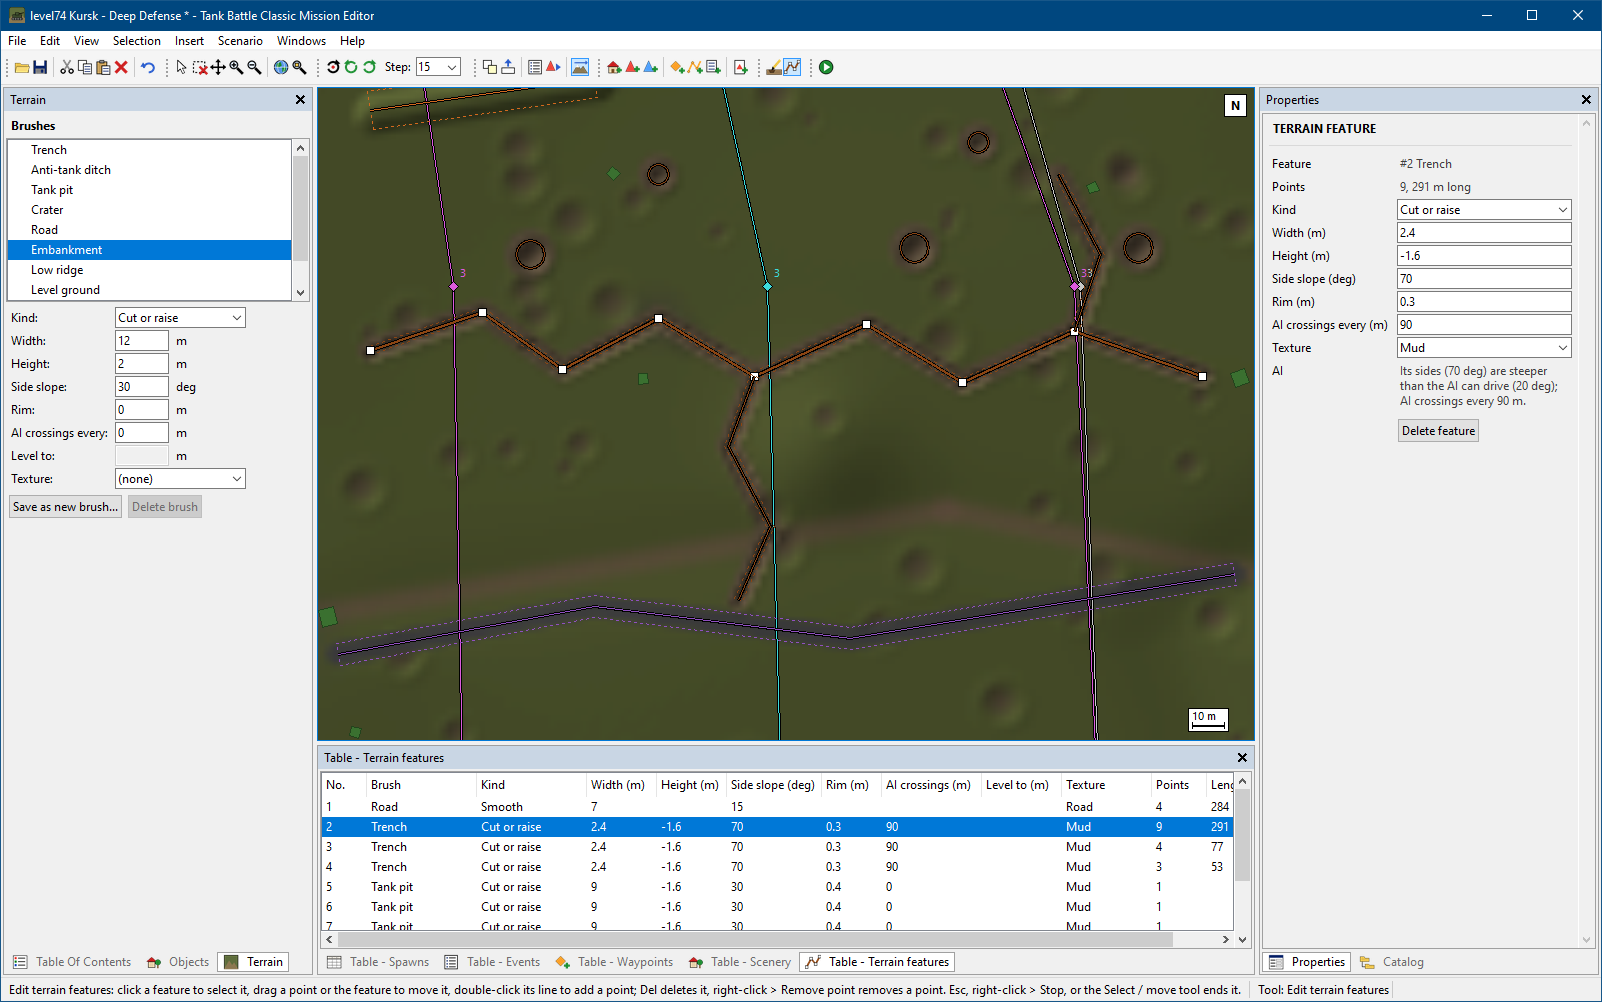
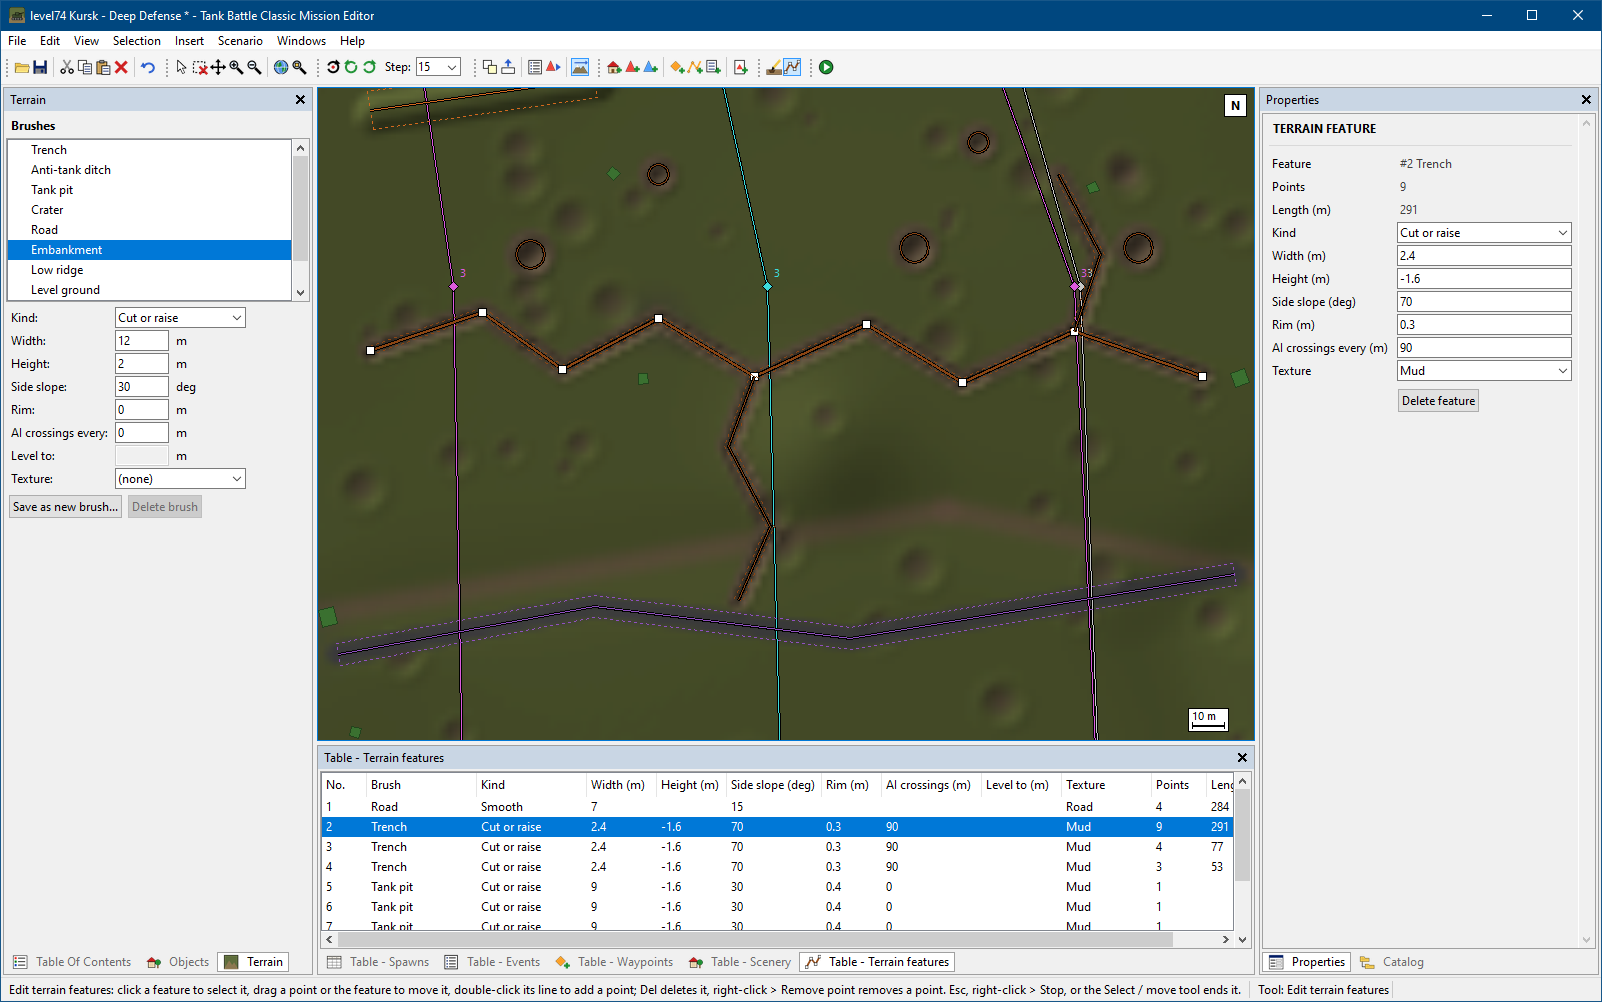
Properties without explanatory text (1.25.1)
The panels hold fields, not instructions:
- event groups are Action, Trigger, Message and Relations, without
  sentences under the headings; the type and trigger descriptions are
  tooltips of their fields; 'Cancels events', 'Time (s)', 'Required',
  'Number required'; list buttons 'From list...' and 'On map';
- Mission settings loses its Hint row; multiple selection loses its Edit
  row; the tank group shows '5 units; mixed tank types';
- the terrain feature panel loses its AI sentence and shows Points and
  Length (m) as separate values;
- the Objects pane no longer shows instructions (choosing an item starts
  the Add tool, whose instructions are in the status bar); the line below
  it shows only the progress of the object library build.

README screenshots of the events and the terrain features updated.

Changed region(s): [[0.7803, 0.1856, 0.9675, 0.4331], [0.8739, 0.1856, 0.9363, 0.3094]]

diff --git a/editor.py b/editor.py
@@ -113,8 +113,6 @@ TOC_LAYERS = [
 ]
 TOC_DEFAULT_OFF = {"Deleted", "Elevation", "Contours", "NavMesh"}
 TOC_OVERLAYS = {"Elevation", "Contours", "NavMesh"}
-OBJ_HINT = ("Click an item to choose the Add tool for it, then click on the map to place one with each "
-            "click. Dragging an item onto the map places one directly.")
 DOUBLE_CLICK_MS = 400
 EVENT_MARK = 18
 
@@ -131,7 +129,7 @@ ADD_BUTTONS = {("spawn", 1): "add:hostile", ("spawn", 0): "add:friendly", ("rout
                ("waypoint",): "add:waypoint"}
 TOOL_NAMES = {"select": "Select / move", "pan": "Pan", "zoomin": "Zoom in", "zoomout": "Zoom out",
               "rotate": "Rotate", "feature": "Draw terrain", "vertex": "Edit terrain features", "add": "Add",
-              "pick": "Pick on map"}
+              "pick": "Select on map"}
 TERRAIN_TOOLS = ("feature", "vertex")
 FREEHAND_PX = 6
 BRUSH_PARAMS = (("width", "Width", "m", "Width at ground level"),
@@ -1831,7 +1829,7 @@ class EditorApp:
         self.obj_build_btn = ttk.Button(bottom, text="Build object library", command=self.build_library)
         self.obj_place_btn = ttk.Button(bottom, text="Place at map centre", command=self.place_selected_object)
         self.obj_place_btn.pack(side="left")
-        self.obj_hint = tk.Label(body, text=OBJ_HINT, anchor="w", justify="left", fg="#404040", wraplength=250)
+        self.obj_hint = tk.Label(body, text="", anchor="w", justify="left", fg="#404040", wraplength=250)
         self.obj_hint.pack(side="bottom", fill="x", padx=4)
         holder = bordered(body)
         holder.pack(fill="both", expand=True, padx=2, pady=2)
@@ -2570,7 +2568,9 @@ class EditorApp:
         sid = s["id"]
         self.prop_info("Feature", f"#{sid} {self.feature_name(s)}")
         n = len(s["points"])
-        self.prop_info("Points", f"{n}, {length(s['points']):.0f} m long" if n > 1 else "1 (a single stamp)")
+        self.prop_info("Points", str(n))
+        if n > 1:
+            self.prop_info("Length (m)", f"{length(s['points']):.0f}")
         self.prop_combo("Kind", [KIND_NAMES[k] for k in KINDS], KINDS.index(s["kind"]),
                         lambda i: self.set_feature_param(sid, "kind", KINDS[i]))
         for key, text, unit, _ in BRUSH_PARAMS:
@@ -2584,9 +2584,6 @@ class EditorApp:
         self.prop_combo("Texture", ["(none)"] + [layer_label(x) for x in names],
                         0 if tex is None or tex >= len(names) else tex + 1,
                         lambda i: self.set_feature_param(sid, "texture", None if i == 0 else i - 1))
-        note = self.ai_note(s).strip()
-        if note:
-            self.prop_info("AI", note)
         r = self._next()
         ttk.Button(self.props, text="Delete feature", command=self.delete_feature).grid(
             row=r, column=1, sticky="w", pady=(6, 0))
@@ -2731,11 +2728,11 @@ class EditorApp:
                 self.obj_hint.config(text=self.library_progress_text())
             else:
                 self.obj_build_btn.pack(side="left")
-                self.obj_hint.config(text="The object library is built once by scanning the original missions.")
+                self.obj_hint.config(text="")
             return
         self.obj_build_btn.pack_forget()
         self.obj_place_btn.pack(side="left")
-        self.obj_hint.config(text=OBJ_HINT)
+        self.obj_hint.config(text="")
         cats = {}
         for i, e in enumerate(lib.entries):
             if f and f not in e["name"].lower() and f not in e["category"].lower():
@@ -3438,7 +3435,7 @@ class EditorApp:
 
     def tool_title(self):
         if self.tool == "pick" and getattr(self, "pick", None):
-            return f"Pick {self.pick['title'].lower()}"
+            return f"Select {self.pick['title'].lower()} on map"
         return f"Add {self.add_item[2]}" if self.tool == "add" else TOOL_NAMES[self.tool]
 
     def cursor(self):
@@ -3469,7 +3466,7 @@ class EditorApp:
             return f"Add {title}: click on the map to place one."
         if tool == "pick" and getattr(self, "pick", None):
             what = "an area" if self.pick["kind"] == "areas" else "a tank"
-            return (f"{self.tool_title()} for {self.model.name(self.model.event_go[self.pick['ev']])}: click "
+            return (f"{self.tool_title()} ({self.model.name(self.model.event_go[self.pick['ev']])}): click "
                     f"{what} to add or remove it.")
         if tool == "feature":
             return (f"Draw terrain with '{self.brush['name']}': click points or drag to draw; right-click, "
@@ -4682,7 +4679,7 @@ class EditorApp:
                  if r["m_FileID"] == 0 and r["m_PathID"] in owner]
         self.prop_info(title, summary(names, "none"), tip=tip)
         r = self._next()
-        ttk.Button(self.props, text="Choose events...",
+        ttk.Button(self.props, text="From list...",
                    command=lambda: self.choose_events(ev, key, count_key, title)).grid(row=r, column=1, sticky="w",
                                                                                       pady=(0, 4))
 
@@ -4728,10 +4725,10 @@ class EditorApp:
         r = self._next()
         cell = tk.Frame(self.props, bg=FACE)
         cell.grid(row=r, column=1, sticky="w", pady=(0, 4))
-        ttk.Button(cell, text="Choose...", command=choose).pack(side="left")
-        btn = ttk.Button(cell, text="Pick on map", command=pick)
+        ttk.Button(cell, text="From list...", command=choose).pack(side="left")
+        btn = ttk.Button(cell, text="On map", command=pick)
         btn.pack(side="left", padx=(4, 0))
-        ToolTip(btn, "Click tanks or areas on the map to add or remove them")
+        ToolTip(btn, "Click on the map to add or remove; Esc ends")
 
     # ---- picking the tanks and areas of an event on the map ----------------
 
@@ -4879,7 +4876,7 @@ class EditorApp:
     def event_props(self, ev):
         """Properties of an event, built from the description of its type and
         trigger (event_types.py): only fields that do something in the game,
-        in the sections Event, What it does, When, Message and Links."""
+        in the groups Action, Trigger, Message and Relations."""
         m = self.model
         d = m.sc.read(ev)
         t, trig = d["Event_Type"], d["Trigger_Type"]
@@ -4889,10 +4886,11 @@ class EditorApp:
             types.append(t)
             names.append(f"Type {t}")
         self.prop_combo("Event type", names, types.index(t),
-                        lambda i: self.op("Set event type", m.set_field, ev, "Event_Type", types[i]))
+                        lambda i: self.op("Set event type", m.set_field, ev, "Event_Type", types[i]),
+                        tip=et.EVENT_HELP.get(t))
         self.prop_enabled(ev)
 
-        self.prop_heading("What it does", et.EVENT_HELP.get(t))
+        self.prop_heading("Action")
         if t in et.TARGET_TYPES:
             self.prop_tanklist("Affected tanks", ev, "Target_Tanks", "Target_Num")
         if t == 2:
@@ -4905,18 +4903,19 @@ class EditorApp:
         if t == 12:
             self.prop_info("Object", self.ref_name(d.get("Activation_Object")))
         self.schema_rows(ev, et.TYPE_FIELDS.get(t, []))
-        self.prop_eventlist("Also cancels", ev, "Useless_Events", "Useless_Event_Num",
-                            tip="Events that will no longer fire once this event has fired (for example, "
-                                "'Mission complete' cancels 'Mission failed')")
+        self.prop_eventlist("Cancels events", ev, "Useless_Events", "Useless_Event_Num",
+                            tip="Events that no longer fire after this event (for example 'Mission complete' "
+                                "cancels 'Mission failed')")
 
-        self.prop_heading("When", et.TRIGGER_HELP.get(trig))
+        self.prop_heading("Trigger")
         trigs = sorted(et.TRIGGER_NAMES)
         if trig not in trigs:
             trigs.append(trig)
-        self.prop_combo("Trigger", [et.TRIGGER_NAMES.get(k, f"Type {k}") for k in trigs], trigs.index(trig),
-                        lambda i: self.op("Set trigger", m.set_field, ev, "Trigger_Type", trigs[i]))
+        self.prop_combo("Type", [et.TRIGGER_NAMES.get(k, f"Type {k}") for k in trigs], trigs.index(trig),
+                        lambda i: self.op("Set trigger", m.set_field, ev, "Trigger_Type", trigs[i]),
+                        tip=et.TRIGGER_HELP.get(trig))
         if trig == 0:
-            self.prop_entry("After (s)", f"{d['Trigger_Time']:g}",
+            self.prop_entry("Time (s)", f"{d['Trigger_Time']:g}",
                             lambda s: self.op("Set trigger time", m.set_field, ev, "Trigger_Time", _number(s)),
                             tip="Seconds after the event is enabled")
         if trig == 2:
@@ -4926,28 +4925,29 @@ class EditorApp:
             self.prop_combo("Tanks that count", [et.AREA_TANKS[k] for k in keys], keys.index(cur) if cur in keys
                             else -1, lambda i: self.op("Set tanks that count", m.set_field, ev,
                                                        "Trigger_Setting_Type", keys[i]),
-                            tip="Hostile and friendly are seen from the player")
+                            tip="Hostile and friendly as seen from the player")
         if et.uses_tank_list(d):
             self.prop_tanklist("Trigger tanks", ev, "Trigger_Tanks", "Trigger_Num")
             modes = ["all", "any", "count"] if trig == 1 else ["all", "any"]
             mode, number = et.tanks_needed(d)
-            self.prop_combo("Tanks needed", [et.NEEDED[k] for k in modes], modes.index(mode) if mode in modes
+            self.prop_combo("Required", [et.NEEDED[k] for k in modes], modes.index(mode) if mode in modes
                             else 0, lambda i: self.set_tanks_needed(ev, modes[i]))
             if mode == "count" and trig == 1:
-                self.prop_entry("Number needed", str(number), lambda s: self.set_tanks_needed(ev, "count", int(s)))
+                self.prop_entry("Number required", str(number),
+                                lambda s: self.set_tanks_needed(ev, "count", int(s)))
 
         if et.shows_message(t):
             self.prop_heading("Message")
             text = d.get("Event_Message", "")
             self.prop_entry("Text", text, lambda s: self.set_message(ev, s),
-                            tip="The Japanese text is set to the same text")
+                            tip="Also used as the Japanese text")
             n = len(text)
             over = n > et.MESSAGE_LIMIT
             self.prop_info("Length", f"{n} of {et.MESSAGE_LIMIT} characters" + (": may be cut off" if over else ""),
                            fg=WARN_FG if over else "#404040")
             self.schema_rows(ev, et.MESSAGE_FIELDS)
 
-        self.prop_heading("Links", "Events that refer to this one.")
+        self.prop_heading("Relations")
         enabled_by, cancelled_by = self.event_links(ev)
         self.prop_info("Enabled by", summary(enabled_by, "none"))
         self.prop_info("Cancelled by", summary(cancelled_by, "none"))
@@ -6047,10 +6047,9 @@ class EditorApp:
             if key:
                 same = [e for e in m.spawns if m.sc.read(e)["Key_Name"] == key and m.active(m.event_go[e])]
                 kinds = {m.sc.read(e)["Tank_Prop"]["m_PathID"] for e in same}
-                note = f"{len(same)} unit(s) in this group"
-                if len(kinds) > 1:
-                    note += "; mixed tank types - the briefing screen sets one type per group"
-                self.prop_info("Group", note)
+                note = f"{len(same)} units" + ("; mixed tank types" if len(kinds) > 1 else "")
+                self.prop_info("Group", note, fg=WARN_FG if len(kinds) > 1 else "#404040",
+                               tip="The briefing screen offers one tank type per group" if len(kinds) > 1 else None)
             self.transform_rows(go)
             packs = [0] + m.packs
             pnames = ["(none)"] + [m.name(m.go_of_tr[p]) for p in m.packs]
@@ -6145,10 +6144,6 @@ class EditorApp:
         self.mission_field_rows(False)
         ai = [e for e in m.events if m.sc.read(e)["Event_Type"] == 2]
         self.prop_info("AI changes", ", ".join(m.name(m.event_go[e]) for e in ai) or "none")
-        self.prop_info("Hint", "Visibility sets how far tanks can see each other. 'Change lighting' events "
-                               "(Table - Events) change fog density and visibility during the mission. Allied "
-                               "groups: select the tanks and set a follow target (for example the Player) and "
-                               "distance in Properties.")
         self.prop_sep()
         self.prop_info("Spawns", str(len(m.spawns)))
         self.prop_info("Other events", str(len(m.events) - len(m.spawns)))
@@ -6196,7 +6191,7 @@ class EditorApp:
         """Mission settings: the lighting preset and values (custom scenarios)."""
         lt = self.lighting_session()
         if lt is None:
-            self.prop_info("Lighting", "Day, dusk and night: custom scenarios only.")
+            self.prop_info("Lighting", "Custom scenarios only")
             return
         try:
             cur, preset = lt.lighting(), lt.preset()
@@ -6288,13 +6283,10 @@ class EditorApp:
             kinds[self.kind(g)] = kinds.get(self.kind(g), 0) + 1
         for k, n in sorted(kinds.items()):
             self.prop_info(k.capitalize() + "s", str(n))
-        self.prop_info("Edit", "Drag, rotate (Q / E or the Rotate tool), copy, cut, paste, duplicate and delete "
-                               "act on the whole selection.")
         evs = [m.event_of_go(g) for g in sel if self.kind(g) == "spawn"]
         if len(evs) != len(sel):
             return
-        self.prop_sep()
-        self.prop_label("Set for all selected tanks:")
+        self.prop_heading("Selected tanks")
         names = [tank_display(t) for t in m.tanks]
         cur = {m.tank_entry(e) for e in evs}
         one = cur.pop() if len(cur) == 1 else None
@@ -6353,13 +6345,10 @@ class EditorApp:
         if tip:
             ToolTip(lbl, tip)
 
-    def prop_heading(self, text, note=None):
-        """A section heading, with an optional explanation below it."""
+    def prop_heading(self, text):
+        """A group heading."""
         tk.Label(self.props, text=text, font=UI_BOLD, anchor="w").grid(
             row=self._next(), column=0, columnspan=2, sticky="w", pady=(8, 0))
-        if note:
-            tk.Label(self.props, text=note, anchor="w", justify="left", wraplength=300, fg="#505050").grid(
-                row=self._next(), column=0, columnspan=2, sticky="w", pady=(0, 2))
 
     def prop_entry(self, name, value, commit, tip=None):
         r = self._next()

diff --git a/event_types.py b/event_types.py
@@ -30,23 +30,22 @@ EVENT_NAMES = {1: "Show message", 2: "Change AI settings", 3: "Remove tanks", 4:
                6: "Destroy target", 7: "Change lighting", 10: "Mission complete", 11: "Mission failed",
                12: "Activate object", 13: "Enable events"}
 EVENT_HELP = {
-    1: "Shows a message.",
-    2: "Gives the affected tanks new AI settings. All values below are applied, not only changed ones.",
-    3: "Removes the affected tanks from the battle.",
+    1: "Displays a message.",
+    2: "Applies new AI settings to the affected tanks. All values are applied.",
+    3: "Removes the affected tanks.",
     4: "Fires an artillery barrage.",
     6: "Destroys the affected tanks.",
-    7: "Changes fog density and visibility over a set time.",
-    10: "Ends the mission as won and shows the message.",
-    11: "Ends the mission as lost and shows the message.",
-    12: "Switches an object in the scene on or off.",
-    13: "Starts events that are not enabled at start; their timers begin now.",
+    7: "Changes fog density and visibility over the given time.",
+    10: "Ends the mission as won; displays the message.",
+    11: "Ends the mission as lost; displays the message.",
+    12: "Switches an object on or off.",
+    13: "Enables events that are disabled at start; their timers start then.",
 }
 TRIGGER_NAMES = {0: "Timer", 1: "Tanks destroyed", 2: "Tank in trigger area"}
 TRIGGER_HELP = {
-    0: "Fires the given number of seconds after the event is enabled: at the start of the mission, or "
-       "when an 'Enable events' event enables it.",
-    1: "Fires when the listed tanks are destroyed (all, any, or a number of them).",
-    2: "Fires when a tank enters one of the trigger areas.",
+    0: "Time after the event is enabled (mission start or an Enable events event).",
+    1: "Destruction of the listed tanks (all, any or a number of them).",
+    2: "A tank entering one of the trigger areas.",
 }
 AREA_TANKS = {0: "Listed tanks", 1: "Any hostile tank", 2: "Any friendly tank"}
 NEEDED = {"all": "All listed tanks", "any": "Any listed tank", "count": "A number of them"}

diff --git a/tests/test_tools.py b/tests/test_tools.py
@@ -221,10 +221,10 @@ class ToolTest(unittest.TestCase):
         app.op("timer", m.set_field, ev, "Trigger_Type", 0)
         app.refresh_props()
         texts = self.prop_texts()
-        for heading in ("What it does", "When", "Message", "Links"):
+        for heading in ("Action", "Trigger", "Message", "Relations"):
             self.assertIn(heading, texts)
-        self.assertIn("After (s)", texts)
-        self.assertNotIn("Tanks needed", texts)
+        self.assertIn("Time (s)", texts)
+        self.assertNotIn("Required", texts)
         app.set_message(ev, "Short text")
         self.assertEqual(m.sc.read(ev)["Event_Message_JPN"], "Short text", "the Japanese text follows")
         app.op("destroyed", m.set_field, ev, "Trigger_Type", 1)
@@ -233,9 +233,9 @@ class ToolTest(unittest.TestCase):
         self.assertEqual((d["Operator_Type"], d["All_Trigger_Flag"], d["Necessary_Num"]), (0, False, 2))
         app.refresh_props()
         texts = self.prop_texts()
-        self.assertNotIn("After (s)", texts, "the trigger time works for timers only")
-        self.assertIn("Tanks needed", texts)
-        self.assertIn("Number needed", texts)
+        self.assertNotIn("Time (s)", texts, "the trigger time works for timers only")
+        self.assertIn("Required", texts)
+        self.assertIn("Number required", texts)
         app.op("enable", m.set_field, ev, "Event_Type", 13)
         app.refresh_props()
         texts = self.prop_texts()
@@ -274,7 +274,7 @@ class ToolTest(unittest.TestCase):
         app.op("no tanks", m.set_field, ev, "Trigger_Tanks", [])
         app.refresh_props()
         texts = self.prop_texts()
-        self.assertIn("Also cancels", texts, "cancelling is part of what the event does")
+        self.assertIn("Cancels events", texts, "cancelling is part of the action")
         self.assertNotIn("Events to cancel", texts)
         app.start_pick(ev, "tanks", "Trigger_Tanks", "Trigger_Num", "Trigger tanks")
         self.assertEqual(self.state(), ("pick", "target"))

diff --git a/version.py b/version.py
@@ -3,6 +3,6 @@
 """Application name, version and copyright (Help > About and the executable)."""
 
 APP_NAME = "Tank Battle Classic Mission Editor"
-__version__ = "1.25.0"
+__version__ = "1.25.1"
 AUTHOR = "fierman"
 COPYRIGHT = "Copyright (C) 2026 fierman"
